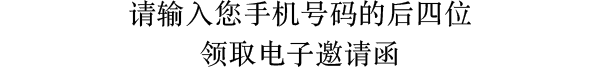
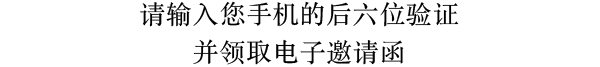
no message

Changed region(s): [[0.21, 0.0, 0.81, 0.4179], [0.3, 0.597, 0.69, 1.0]]

diff --git a/home.html b/home.html
@@ -49,10 +49,10 @@
 	
 				<div class="slideModel checkin">
 					<p>
-						尊敬的<em>XXX</em>欢迎您出席13: 30的活动
+						尊敬的<span class="uname">XXX</span>欢迎您出席<span class="ntime">13: 30</span>的活动
 					</p>
 					<p>
-						SA:<em>XXX</em>
+						SA:<span class="nsa">XXX</span>
 					</p>
 
 					<ul class="checklist">
@@ -80,6 +80,8 @@
 <script type="text/javascript">
 	
 	var eventMethod = {
+		scanStatus: false,
+		ntArr: ["13：30", "15：30"], 
 		visibleFun: function(n){
 			$(".slideModel").css({"visibility": "hidden"});
 			$(n).css({"visibility": "visible"});
@@ -90,6 +92,31 @@
 			}else{
 				return true;
 			}
+		},
+		conRewrite: function(n){
+			//console.log(n);
+			$(".uname").html(n['uname']);
+			$(".usa").html(n['usa']);
+
+			if(n['ci1']){
+				$(".checklist li").eq(0).addClass("active");
+			}
+
+			if(n['ci2']){
+				$(".checklist li").eq(1).addClass("active");
+			}
+
+			if(n['ci3']){
+				$(".checklist li").eq(2).addClass("active");
+			}
+
+			$(".ntime").html(ntArr[n['nt']]);
+
+			$(".checklist").attr("data-code", n['tel'])
+
+			//this.scanStatus = true;
+
+			this.visibleFun(".checkin");
 		}
 	}
 
@@ -101,15 +128,6 @@
 
     pfun.loadingFnDoing(LoadingImg, function(){
     	$(".loading").css({"visibility": "hidden"});
-    })
-
-    $(".checklist li").on("click", function(){
-    	var self = $(this);
-    	if(self.hasClass('active')){
-    		self.removeClass('active');
-    	}else{
-    		self.addClass('active')
-    	}
     })
 
 
@@ -126,9 +144,17 @@
 
 	$(document).keypress(function (e) {
 		//console.log(e.keyCode); //32空格  13回车
-		var identifier = $("#identifier").val();
+		var identifier = $("#identifier").val(),
+			guestinfoPushData = {
+				awardcode: identifier
+			};
         if (e.keyCode == 13 || e.keyCode == 32){
+        	//if(eventMethod.scanStatus) return false;
+
         	console.log(identifier);
+
+        	//pfun.ajaxFun("post", "./api/guestinfo", guestinfoPushData, "json", guestinfoCallback);
+
         	if(eventMethod.identifierIsPass(identifier)){
         		eventMethod.visibleFun(".checkin");
         	}else{
@@ -138,19 +164,62 @@
         }
      })
 
+    function guestinfoCallback(data){
+        if(data.code == 10){
+        	var databox = {
+        		'uname': data.memname, 
+        		'usa': data.guide, 
+        		'ci0': data.meet1status, 
+        		'ci1': data.meet2status, 
+        		'ci2': data.dinnerstatus, 
+        		'nt': data.meettime,
+        		'tel': data.callnumber
+        	}
+        	eventMethod.conRewrite(databox);
 
-
-
-	var guestinfoPushData = {
-		awardcode: '123456'
-	}
-
-	ajaxfun("GET", "/api/guestinfo", guestinfoPushData, "json", jssdkCallback);
-
-    function jssdkCallback(data){
-        console.log(data);
+        }else if(data.code == 9){
+        	eventMethod.visibleFun(".errorTips");
+        }else{
+        	pfun.formErrorTips(data.msg);
+        }
     } 
 
+  
+
+    
+
+    $(".checklist").delegate("li", "click", function(){
+    	var self = $(this),
+	    	lmPushData = {
+		    	awardcode: $(".nsa").html()
+		    },
+		    _index = self.index(),
+		    ajaxSrcArr = ["./api/loginmeets1", "./api/loginmeets2", "./api/logindinner"];
+    	
+    	if(self.hasClass("disable")) return false;
+
+    	self.addClass("disable");
+
+    	pfun.ajaxFun("post", ajaxSrcArr[_index], lmPushData, "json", lmCallback);
+
+    	function lmCallback(data){
+
+    		if(data.code == 10){
+    			if(self.hasClass('active')){
+		    		self.removeClass('active');
+		    	}else{
+		    		self.addClass('active')
+		    	}
+    		}else{
+    			pfun.formErrorTips(data.msg);
+    		}
+
+    		self.removeClass("disable");
+
+    	}
+
+    	
+    })
 
 
 </script>

diff --git a/vfile/pc/css/style.css b/vfile/pc/css/style.css
@@ -159,6 +159,20 @@ body.heightbg100{
 }
 
 
+.checklist li.disable{
+    opacity: .5;
+}
+
+.checklist li.disable:after{
+    width: 100%;
+    height: 100%;
+    position: absolute;
+    left: 0;
+    top: 0;
+    content: "";
+    background: url('../../img/loading.gif') no-repeat center;
+    z-index: 2;
+}
 
 
 

diff --git a/vfile/css/style.css b/vfile/css/style.css
@@ -57,7 +57,7 @@ body{
 }
 
 .telInput input{
-    width: 57%;
+    width: 67%;   /*57%*/
     border: 1px #e2e2e2 solid;
     border-radius: 2%;
     background: #fafafa;

diff --git a/template/registernumber.tpl.php b/template/registernumber.tpl.php
@@ -51,7 +51,7 @@
 				<div class="telArea">
 					<img src="./vfile/img/text-2.png" width="100%" >
 					<div class="telInput">
-						<input type="tel" maxlength="4" size="4">
+						<input type="tel" maxlength="6" size="6">
 					</div>
 					<!-- <ul>
 						<li>
@@ -156,8 +156,8 @@
 	$(".receive-btn").click(function(){
 		if($(this).hasClass('disable')) return false;
 		var _gn = coachEinviteMethod.getNum().replace(/\s/ig,'');
-		if(_gn.length != 4){
-			pfun.formErrorTips("请输入您手机的后四位验证！");
+		if(_gn.length != 6){
+			pfun.formErrorTips("请输入您手机的后六位验证！");
 		}else{
 			$(this).addClass('disable');
 			var submitPushData = {
